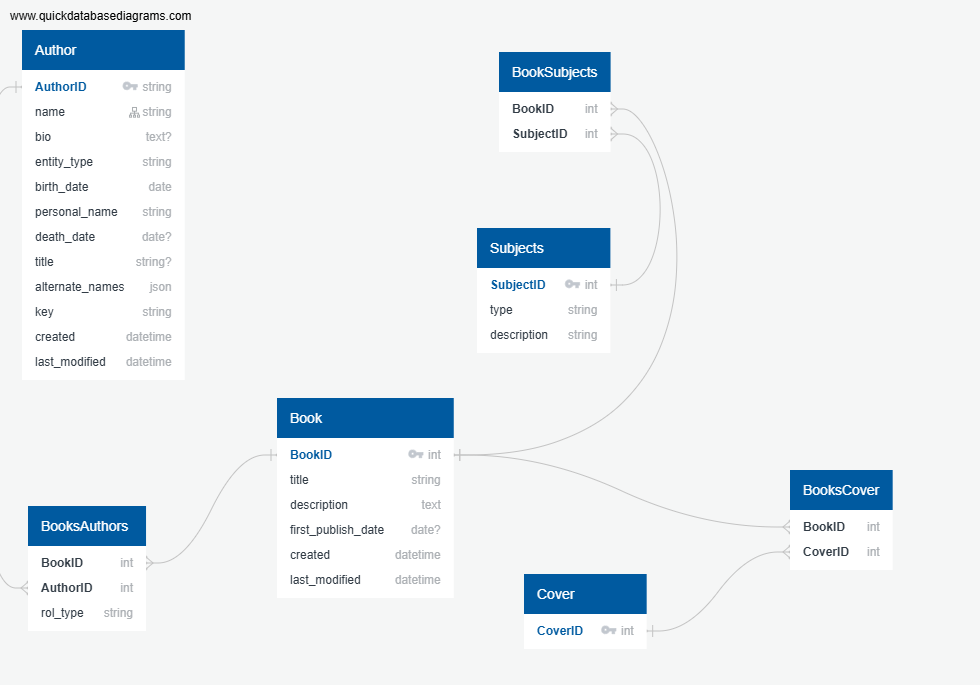
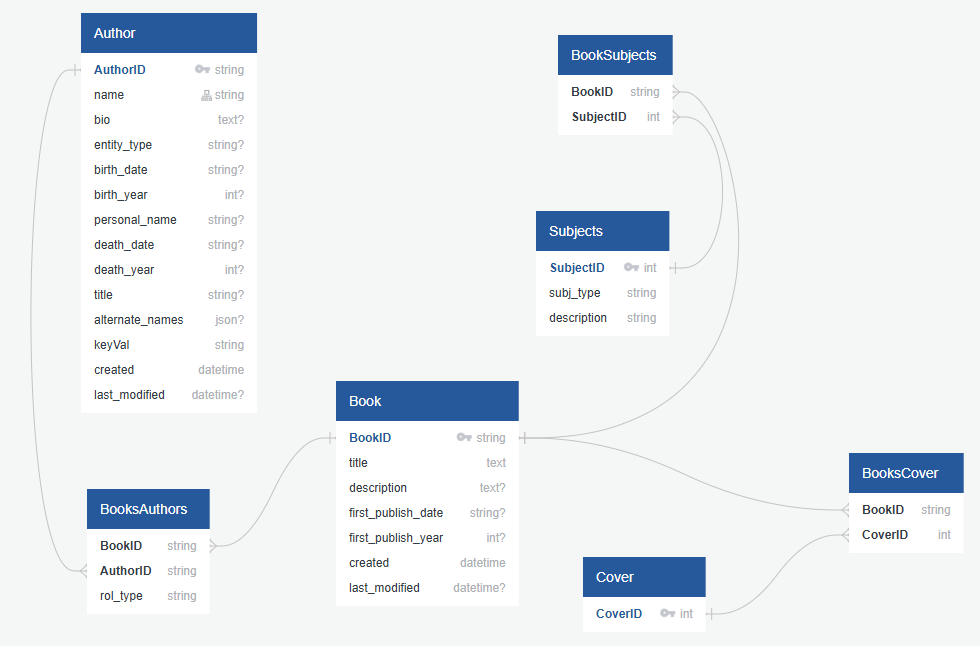
Finished scripts and database design

diff --git a/ExtractData.py b/ExtractData.py
@@ -2,6 +2,9 @@ import requests
 import time
 import json
 import re
+import sys
+import csv
+import traceback
 from datetime import datetime
 
 def sql_escape(s):
@@ -15,15 +18,50 @@ def safe_sql_value(value):
     else:
         return f"'{value}'"
 
-def generate_authorInsert():
-
+def fetch_and_save_authorLists(filename):
+    
     # Step 1: Call the API to get list of authors
-    url = "https://openlibrary.org/search/authors.json?q=*&limit=100"
+    url = "https://openlibrary.org/search/authors.json?q=*&limit=500"
     response = requests.get(url)
-    data = response.json()
+    
+    # Check for HTTP status code
+    if response.status_code != 200:
+        print(f"Error: Received status code {response.status_code}")
+        print(response.text)  # Optional: see what was returned
+        return
+    
+    try:
+        data = response.json()
+    except Exception as e:
+        print("Failed to parse JSON response:")
+        print(response.text[:200])  # Print part of the response to help debug
+        raise e
+
+
+    author_keys = []
+    # Step 2: Loop through author IDs and call the detailed API
+    for author in data.get('docs', []):
+        key  = author.get('key')  # Format: OL12345A
+        if key:
+            author_keys.append(key)
+    
+    with open(filename, 'w', newline='', encoding='utf-8') as f:
+        writer = csv.writer(f)
+        for key in author_keys:
+            writer.writerow([key])
+
+    print(f"Saved {len(author_keys)} author IDs to {filename}")
+
+def generate_authorInsert(filename):
+
+    # Step 1: Read list of authors
+    with open(filename, newline='', encoding='utf-8') as f:
+        reader = csv.reader(f)
+        author_ids = [row[0] for row in reader]
 
     # Step 2: Generate SQL INSERT statements
     sql_statements = []
+    book_statements = []
     coversFullList = []
     count = 0
     author_book_roles = set()
@@ -32,8 +70,8 @@ def generate_authorInsert():
     coverBookStatements = []
 
     # Step 2: Loop through author IDs and call the detailed API
-    for author in data.get('docs', []):
-        author_id = author.get('key')  # Format: OL12345A
+    for author_id in author_ids:
+        
         if not author_id:
             continue
 
@@ -120,6 +158,7 @@ def generate_authorInsert():
             );"""
             sql_statements.append(sql)
 
+            time.sleep(45)
             url_authorWorks = f"https://openlibrary.org/authors/{author_id}/works.json"
             
             authorWorks_response = requests.get(url_authorWorks)
@@ -160,55 +199,78 @@ def generate_authorInsert():
                 #Subject
                 for desc in workOfAuthor.get('subject_places',[]):
                     subject_entries.add(('place',desc))
-                    subjectXBooks.add(work_id,('place',desc))
+                    subjectXBooks.add((work_id,('place',desc)))
 
                 for desc in workOfAuthor.get('subjects', []):
                     subject_entries.add(('topic', desc))
-                    subjectXBooks.add(work_id,('topic',desc))
+                    subjectXBooks.add((work_id,('topic',desc)))
 
                 for desc in workOfAuthor.get('subject_people', []):
                     subject_entries.add(('people', desc))
-                    subjectXBooks.add(work_id,('people',desc))
+                    subjectXBooks.add((work_id,('people',desc)))
 
                 for desc in workOfAuthor.get('subject_times', []):
                     subject_entries.add(('time', desc))
-                    subjectXBooks.add(work_id,('time',desc))
+                    subjectXBooks.add((work_id,('time',desc)))
 
                 #Cover Data
                 coverList = workOfAuthor.get('covers',None)
                 if not isinstance(coverList,list):
                     coverList = None
-
-                for cover in coverList:
-                    coversFullList.append(cover)
-                    coverBookStatements.append((work_id,cover))
+                else:
+                    for cover in coverList:
+                        coversFullList.append(cover)
+                        coverBookStatements.append((work_id,cover))
 
                 #Book's author data
                 authorsxBookL = workOfAuthor.get('authors',None)
                 if not isinstance(authorsxBookL,list):
                     authorsxBookL = None
                 
-                for authorxBook in authorsxBookL:
-                    authorFull = authorxBook.get('author',None)
-                    authorV = authorFull.split('/')[-1]
-                    typeRole = authorxBook.get('type',None)
-                    typeV = typeRole.split('/')[-1]
+                if authorsxBookL:
+                    for authorxBook in authorsxBookL:
+                        authorFull = authorxBook.get('author',None)
+                        authorFull = authorFull.get('key',None)
+                        authorV = authorFull.split('/')[-1]
+                        typeRole = authorxBook.get('type',None)
+                        if isinstance(typeRole, dict):
+                            type_key = typeRole.get('key', None)
+                        elif isinstance(typeRole, str):
+                            type_key = typeRole 
+                        #typeRole = typeRole.get('key',None)
+                        typeV = type_key.split('/')[-1]
 
-                    if authorV is not None:
-                        triplet = (authorV,work_id,typeV)
+                        if authorV is not None:
+                            triplet = (authorV,work_id,typeV)
 
-                        if triplet not in author_book_roles:
-                            author_book_roles.add(triplet)
+                            if triplet not in author_book_roles:
+                                author_book_roles.add(triplet)
 
+                createdB_sql = f"'{createdB.isoformat(sep=' ')}'" if createdB else "NULL"
+                last_modifiedB_sql = f"'{last_modifiedB.isoformat(sep=' ')}'" if last_modifiedB else "NULL"
+                first_publish_date = f"'{sql_escape(first_publish_date)}'" if first_publish_date else "NULL"
+                fPublish_year = str(fPublish_year) if fPublish_year is not None else "NULL"
+                description = safe_sql_value(description)
+
+                book_sql = f"""INSERT INTO Book (
+                    BookID, title, description, first_publish_date, first_publish_year,
+                    created, last_modified
+                ) VALUES (
+                    '{work_id}', "{title}", {description}, {first_publish_date},
+                    {fPublish_year}, {createdB_sql}, {last_modifiedB_sql}
+                );"""
+                book_statements.append(book_sql)
 
             count = count + 1
-            #if count > 1000:
-            break
+            if count > 50:
+                break
 
         except Exception as e:
-            print(f"Failed to fetch data for author {author_id}: {e}")
+            exc_type, exc_obj, tb = sys.exc_info()
+            line_number = tb.tb_lineno
+            print(f"Failed to fetch data for author {author_id}: {e} (on line {line_number})")
 
-        time.sleep(0.5)  # Be nice to the API by not spamming requests
+        time.sleep(1)  # Be nice to the API by not spamming requests
 
     # Step 3: Save to a .sql file (optional)
     with open('insert_authors.sql', 'w', encoding='utf-8') as f:
@@ -216,6 +278,7 @@ def generate_authorInsert():
             f.write(statement + '\n')
 
     generate_coverScript(coversFullList,coverBookStatements)
+    generate_booksByScript(book_statements)
     generate_booksByAuthor(author_book_roles)
     generate_subjectScript(subject_entries,subjectXBooks)
     print("Generated SQL statements saved to insert_authors.sql")
@@ -234,6 +297,11 @@ def generate_coverScript(coversFullList,coverBookStatements):
                                         VALUES ('{work_id}',{cover});"""
             f.write(sql_CoverBook + '\n')
 
+def generate_booksByScript(book_statements):
+    with open('insert_books.sql','w',encoding='utf-8') as f:
+        for statement in book_statements:
+            f.write(statement + '\n')
+
 def generate_booksByAuthor(author_book_roles):
     
     with open('insert_bookAuthors.sql', 'w', encoding='utf-8') as f:
@@ -249,10 +317,8 @@ def generate_subjectScript(subject_entries,subjectXBooks):
 
     with open('insert_subjects.sql', 'w', encoding='utf-8') as f:
         for subject_type, description in sorted(subject_entries):
-            sql = (
-                f"INSERT INTO Subjects (SubjectID, type, description) "
-                f"VALUES ({subject_id}, '{subject_type}', '{description}');"
-            )
+            sql = f"""INSERT INTO Subjects (SubjectID, subj_type, description) 
+                    VALUES ({subject_id}, '{subject_type}', "{description}");"""
             f.write(sql + '\n')
             
             subject_id_map[(subject_type, description)] = subject_id
@@ -263,3 +329,7 @@ def generate_subjectScript(subject_entries,subjectXBooks):
             sid = subject_id_map[(stype, sdesc)]
             sql = f"INSERT INTO BookSubjects (BookID, SubjectID) VALUES ('{work_id}', {sid});"
             f.write(sql + '\n')
+
+filename = "author_ids.csv"
+#fetch_and_save_authorLists(filename)
+generate_authorInsert(filename)
